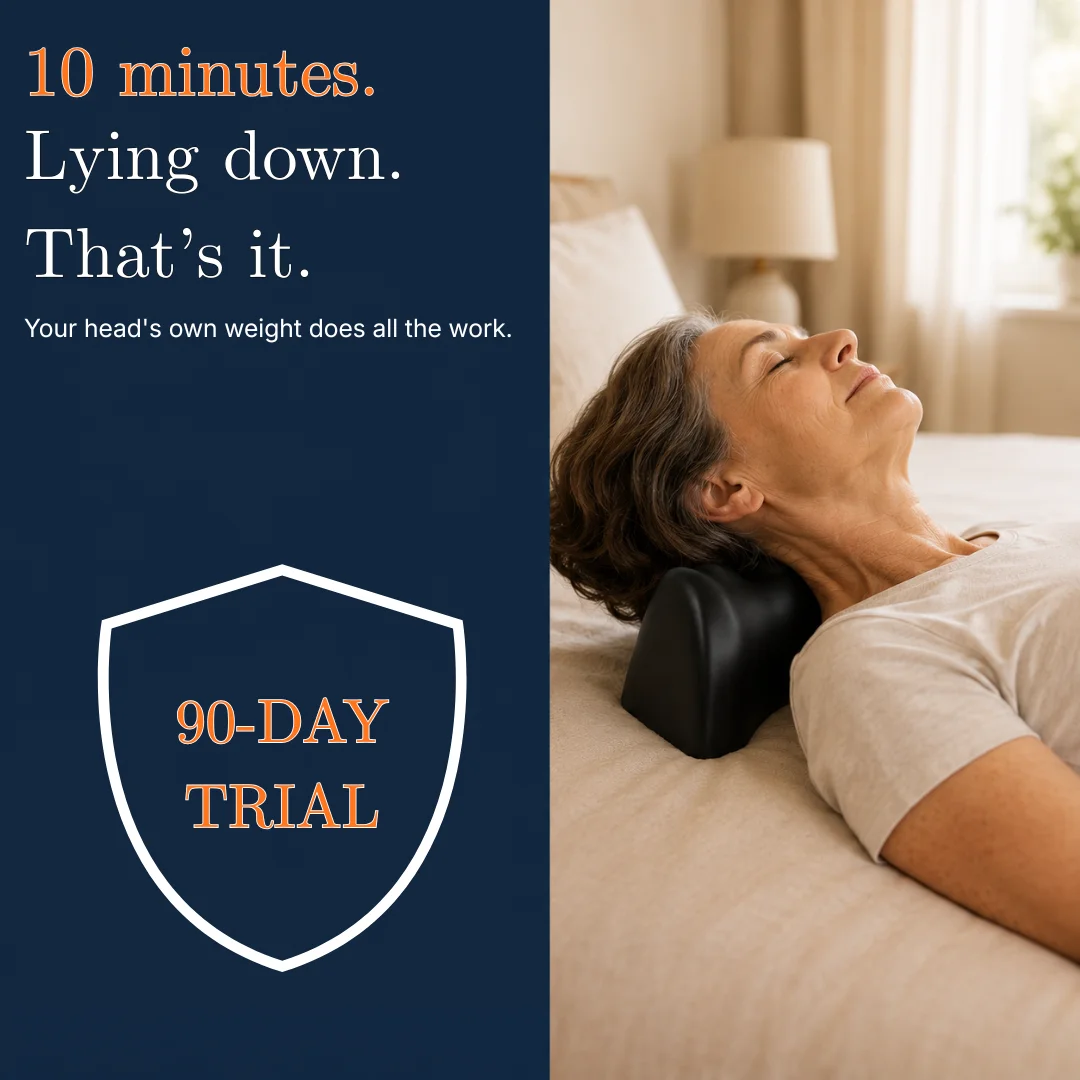
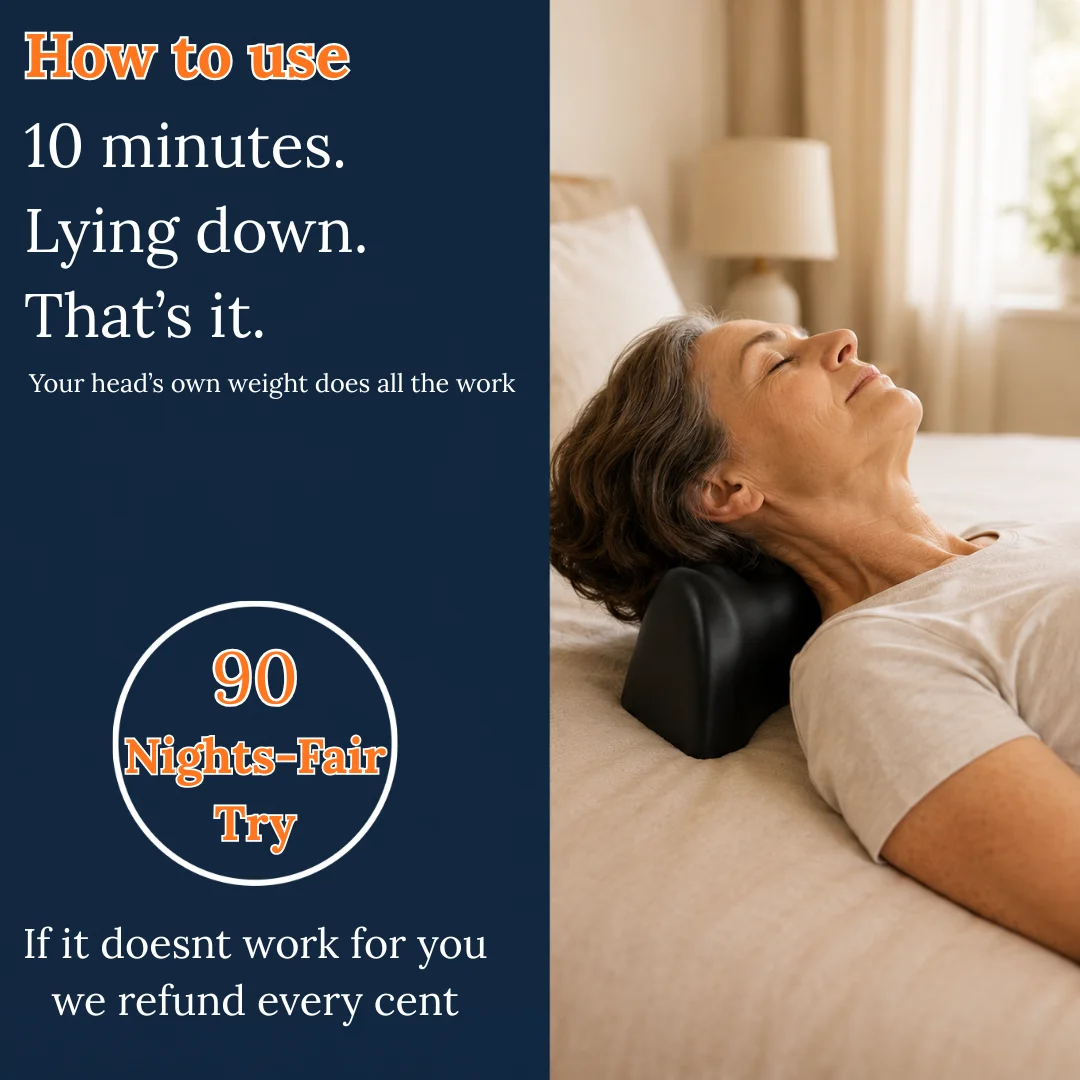
Gravity: nueva 2ª imagen del hero (How to use) + fix cart fallback con placeholders del jabón
- hero-02.webp + thumb reemplazados por la nueva imagen 'How to use / 10 min / Lying down', cache-bust ?v=gc2→gc3, alt actualizado
- FIX: el cart drawer tenía placeholders estáticos del jabón/scalp (2 Bars, $39/$58, −$19.00) → corregidos a GRAVITY-2 real (2 Cradles, $69.95/$139.90, −$69.95) + imagen bundle-2. Carrito vacío muestra estado vacío; con producto, valores correctos; 0 rastros de jabón

Changed region(s): [[0.0, 0.5194, 0.4583, 0.9472], [0.0, 0.0306, 0.4889, 0.3667], [0.4278, 0.275, 0.4583, 0.3056]]

diff --git a/gravity/index.html b/gravity/index.html
@@ -833,7 +833,7 @@ section{padding:74px 0}
           <div class="hero-track" id="heroTrack">
             <!-- 6 real hero images, fixed order 01..06 (01-packshot is the featured/default) -->
             <div class="hero-slide"><img src="assets/hero-01.webp?v=gc2" srcset="assets/hero-01-800.webp 800w, assets/hero-01.webp?v=gc2 1080w" sizes="(max-width:980px) 100vw, 640px" alt="The Gravity Cradle with its box" width="1080" height="1080" fetchpriority="high"></div>
-            <div class="hero-slide"><img src="assets/hero-02.webp?v=gc2" alt="Ten minutes lying down — the Gravity Cradle in use, 90-day trial" width="1080" height="1080" loading="lazy"></div>
+            <div class="hero-slide"><img src="assets/hero-02.webp?v=gc3" alt="How to use: 10 minutes lying down — your head's own weight does the work" width="1080" height="1080" loading="lazy"></div>
             <div class="hero-slide"><img src="assets/hero-03.webp?v=gc2" alt="Why it works: the cushion of tension at the base of the neck" width="1080" height="1080" loading="lazy"></div>
             <div class="hero-slide"><img src="assets/hero-04.webp?v=gc2" alt="1,900+ women have taken the first step — before and after profiles" width="1080" height="1080" loading="lazy"></div>
             <div class="hero-slide"><img src="assets/hero-05.webp?v=gc2" alt="What to expect week by week with daily use" width="1080" height="1080" loading="lazy"></div>
@@ -844,7 +844,7 @@ section{padding:74px 0}
         </div>
         <div class="hero-thumbs">
           <button type="button" class="hero-thumb is-active" aria-label="Product packshot"><img src="assets/hero-01-thumb.webp?v=gc2" alt="" loading="lazy"></button>
-          <button type="button" class="hero-thumb" aria-label="In use — 10 minutes lying down"><img src="assets/hero-02-thumb.webp?v=gc2" alt="" loading="lazy"></button>
+          <button type="button" class="hero-thumb" aria-label="In use — 10 minutes lying down"><img src="assets/hero-02-thumb.webp?v=gc3" alt="" loading="lazy"></button>
           <button type="button" class="hero-thumb" aria-label="Why it works"><img src="assets/hero-03-thumb.webp?v=gc2" alt="" loading="lazy"></button>
           <button type="button" class="hero-thumb" aria-label="Before and after"><img src="assets/hero-04-thumb.webp?v=gc2" alt="" loading="lazy"></button>
           <button type="button" class="hero-thumb" aria-label="What to expect"><img src="assets/hero-05-thumb.webp?v=gc2" alt="" loading="lazy"></button>
@@ -1127,20 +1127,20 @@ section{padding:74px 0}
   </div>
   <div class="cart-body">
     <div class="cart-item">
-      <div class="cart-item-img"><span class="ci-qty" id="cartQty">×1</span><img id="cartImg" src="assets/hero-01.webp?v=gc2" alt="The Gravity Cradle" width="96" height="96"></div>
+      <div class="cart-item-img"><span class="ci-qty" id="cartQty">×1</span><img id="cartImg" src="assets/bundle-2.webp?v=b2" alt="The Gravity Cradle" width="96" height="96"></div>
       <div class="cart-item-info">
         <div class="cart-item-name" id="cartName">The Gravity Cradle</div>
-        <div class="cart-item-meta" id="cartMeta">2 Bars</div>
-        <div class="cart-item-price"><span id="cartPrice">$39</span><span class="ci-was" id="cartWas">$58</span></div>
+        <div class="cart-item-meta" id="cartMeta">2 Cradles</div>
+        <div class="cart-item-price"><span id="cartPrice">$69.95</span><span class="ci-was" id="cartWas">$139.90</span></div>
       </div>
     </div>
     <div class="colour-picker cart-colours" id="cartColours"></div>
     <div class="cart-gift" id="cartGifts"></div>
   </div>
   <div class="cart-foot">
-    <div class="cart-totals"><span>Subtotal</span><span id="cartSubtotal">$58</span></div>
-    <div class="cart-totals"><span>Bundle saving</span><span class="ct-save" id="cartSaving">−$19.00</span></div>
-    <div class="cart-totals grand"><span>Total</span><span id="cartTotal">$39</span></div>
+    <div class="cart-totals"><span>Subtotal</span><span id="cartSubtotal">$139.90</span></div>
+    <div class="cart-totals"><span>Bundle saving</span><span class="ct-save" id="cartSaving">−$69.95</span></div>
+    <div class="cart-totals grand"><span>Total</span><span id="cartTotal">$69.95</span></div>
     <button type="button" class="cart-checkout" id="cartCheckout">Secure checkout →</button>
     <div class="cart-foot-trust"><span>🔒 SSL secure</span><span>↩ 90-day guarantee</span><span>🚚 Free shipping</span></div>
   </div>
